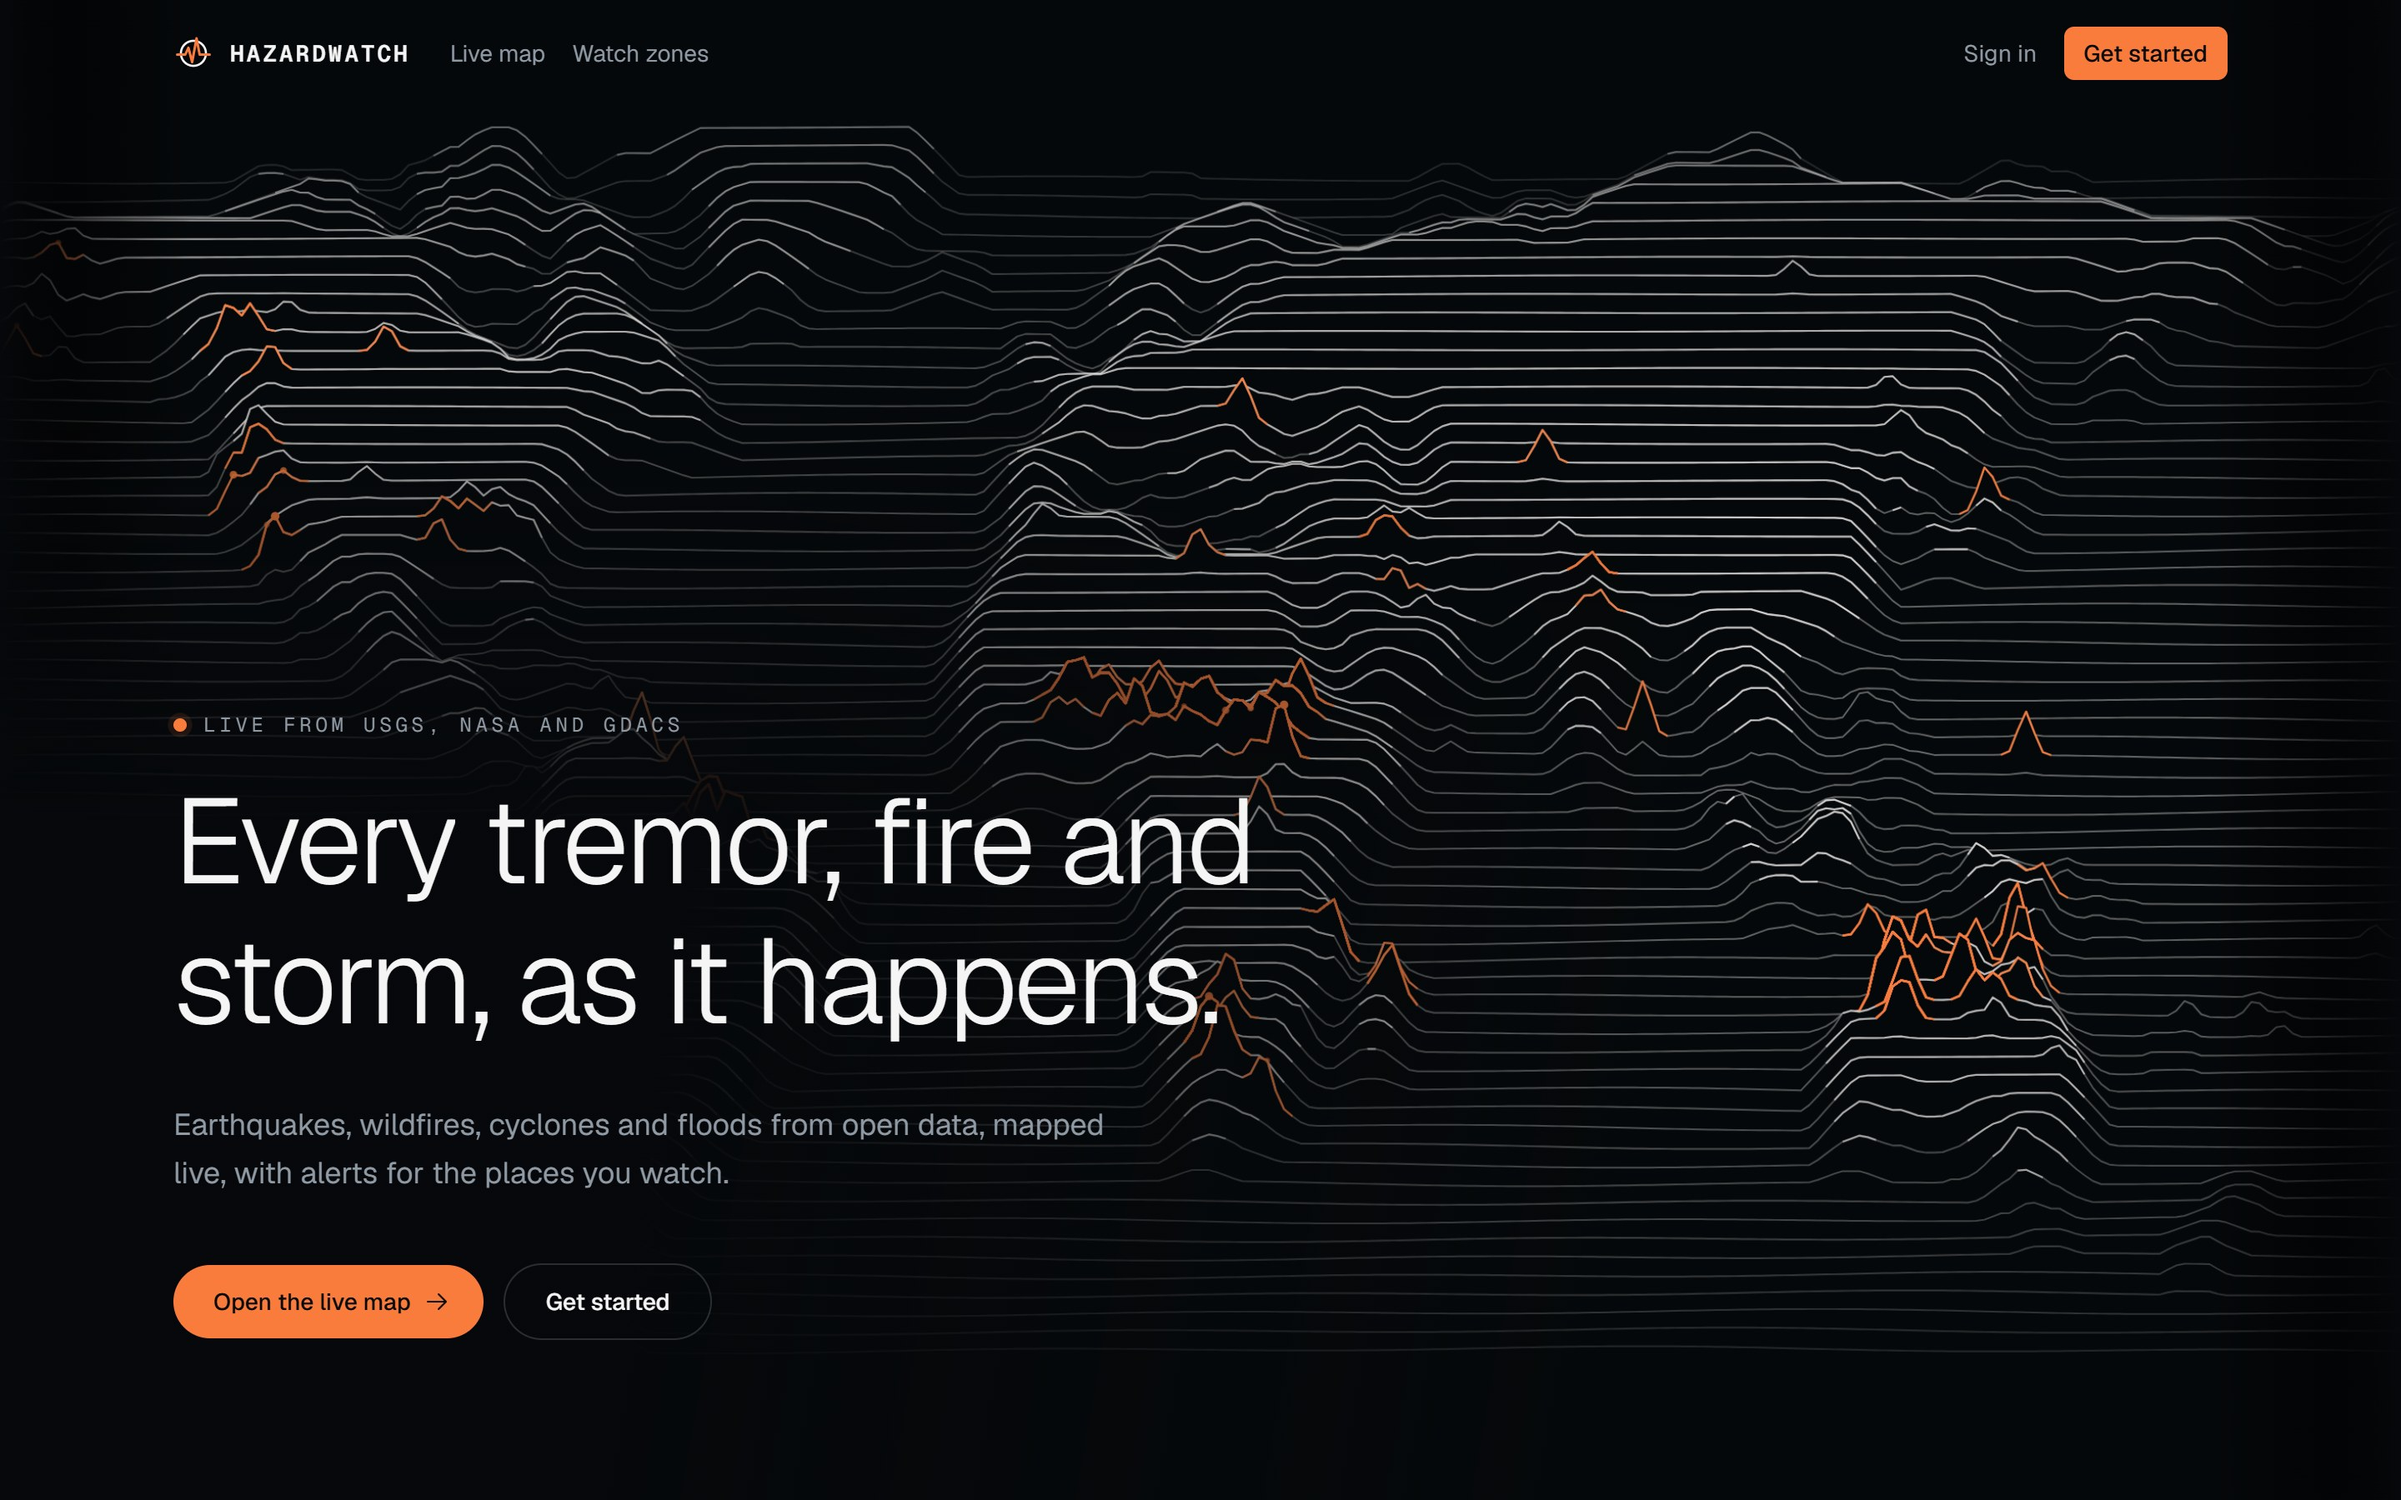
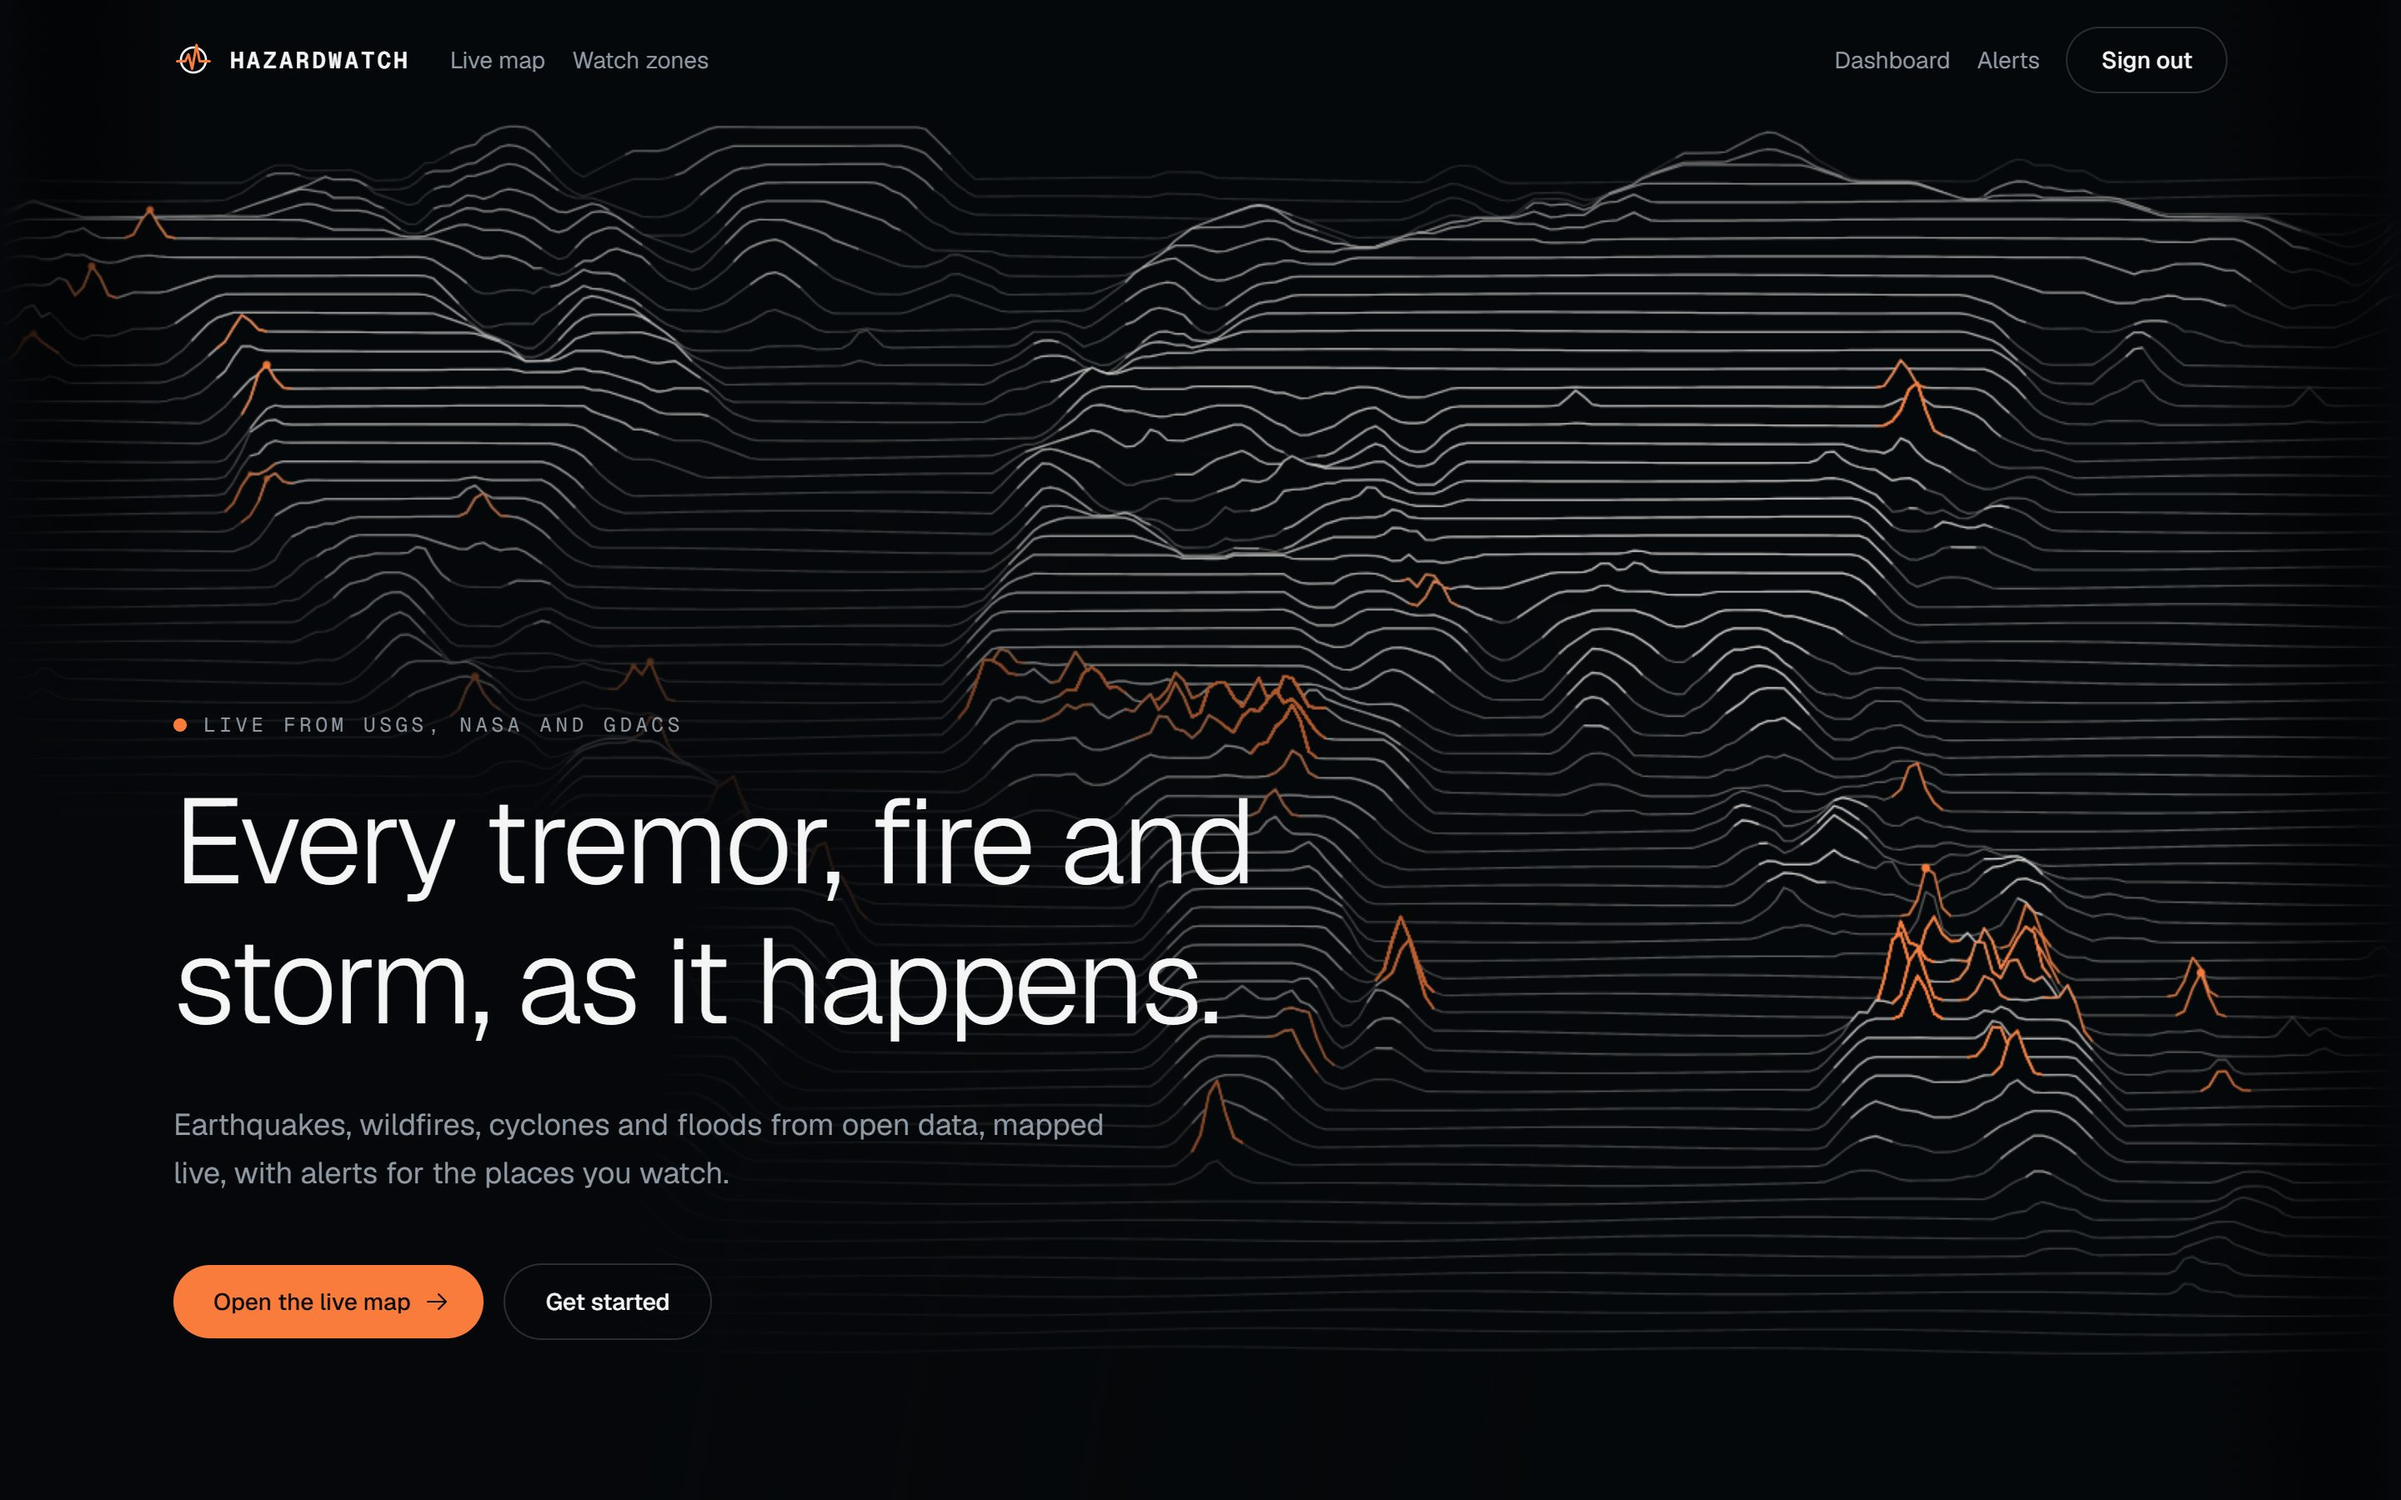
docs: update the README screenshots
New screenshots of the home page, its feature tiles, the live map, the
watch zones, a zone, the alerts, the new dashboard and both main pages
on a phone, taken with live data.

diff --git a/README.md b/README.md
@@ -41,9 +41,11 @@ alert in the app, by email and as a notification on your devices.
 Everything runs on public data and free hosting tiers, without a single API
 key.
 
+<img src="docs/screenshots/features.jpg" alt="The home page tiles, alive with the events of the past day: events placed over the latest clouds of GOES-East, a watch zone around Paris swept like a radar over the city lights of Europe, and an alert notification" />
+
 ### A live globe of every hazard
 
-<img src="docs/screenshots/live-map.jpg" alt="The live map: a globe with clusters of events coloured by severity, the heat of fires across the Sahel, and the list of events beside it" />
+<img src="docs/screenshots/live-map.jpg" alt="The live map: a globe with clusters of events coloured by severity, the heat of fires across Africa, and the list of events beside it" />
 
 - **Every source on one map.** Earthquakes from USGS, fires detected from
   orbit by NASA FIRMS, cyclones, floods, volcanoes and droughts from GDACS,
@@ -77,7 +79,16 @@ NASA GIBS.
 
 ### Watch zones and alerts
 
-<img src="docs/screenshots/zone.jpg" alt="A watch zone page: a 500 km circle around Bangui with the fires detected inside it, and their list" />
+<table>
+  <tr>
+    <td valign="top" width="50%"><img src="docs/screenshots/zones.jpg" alt="The watch zones page: three zones, each with its recent events and its alert threshold" /></td>
+    <td valign="top" width="50%"><img src="docs/screenshots/zone.jpg" alt="A watch zone page: a 500 km circle around Bangui with the fires detected inside it, and their list" /></td>
+  </tr>
+  <tr>
+    <td valign="top"><strong>Your zones</strong>, each with its recent events and the most severe of them.</td>
+    <td valign="top"><strong>A zone's page</strong>, with the hazards inside it on the map and in a list.</td>
+  </tr>
+</table>
 
 A watch zone is a circle of 10 to 1,000 km around any point, drawn on the
 map or typed in. Its page shows the hazards inside it. When a new event
@@ -88,7 +99,7 @@ them within a minute, phones included once the app is installed.
 
 <table>
   <tr>
-    <td valign="top" width="58%"><img src="docs/screenshots/alerts.jpg" alt="The alerts page, listing two fires that reached a watch zone" /></td>
+    <td valign="top" width="58%"><img src="docs/screenshots/alerts.jpg" alt="The alerts page: push notifications to turn on, and fires that reached a watch zone, coloured by severity" /></td>
     <td valign="top" width="42%"><img src="docs/screenshots/email.jpg" alt="The alert email: two events reached your watch zones, with a link to all alerts" /></td>
   </tr>
   <tr>
@@ -96,6 +107,14 @@ them within a minute, phones included once the app is installed.
     <td valign="top"><strong>By email</strong>, in one digest every two minutes at most.</td>
   </tr>
 </table>
+
+### A dashboard for your places
+
+<img src="docs/screenshots/dashboard.jpg" alt="The dashboard: zones watched, unread alerts and events worldwide, the busiest zones, the latest alerts, the state of each data feed and the events of the past day by kind" />
+
+Once signed in, the dashboard sums up your account: the zones with the most
+severe recent events, the latest alerts, whether each data feed is up to
+date, and what the planet looked like over the past day.
 
 ### On any screen
 
